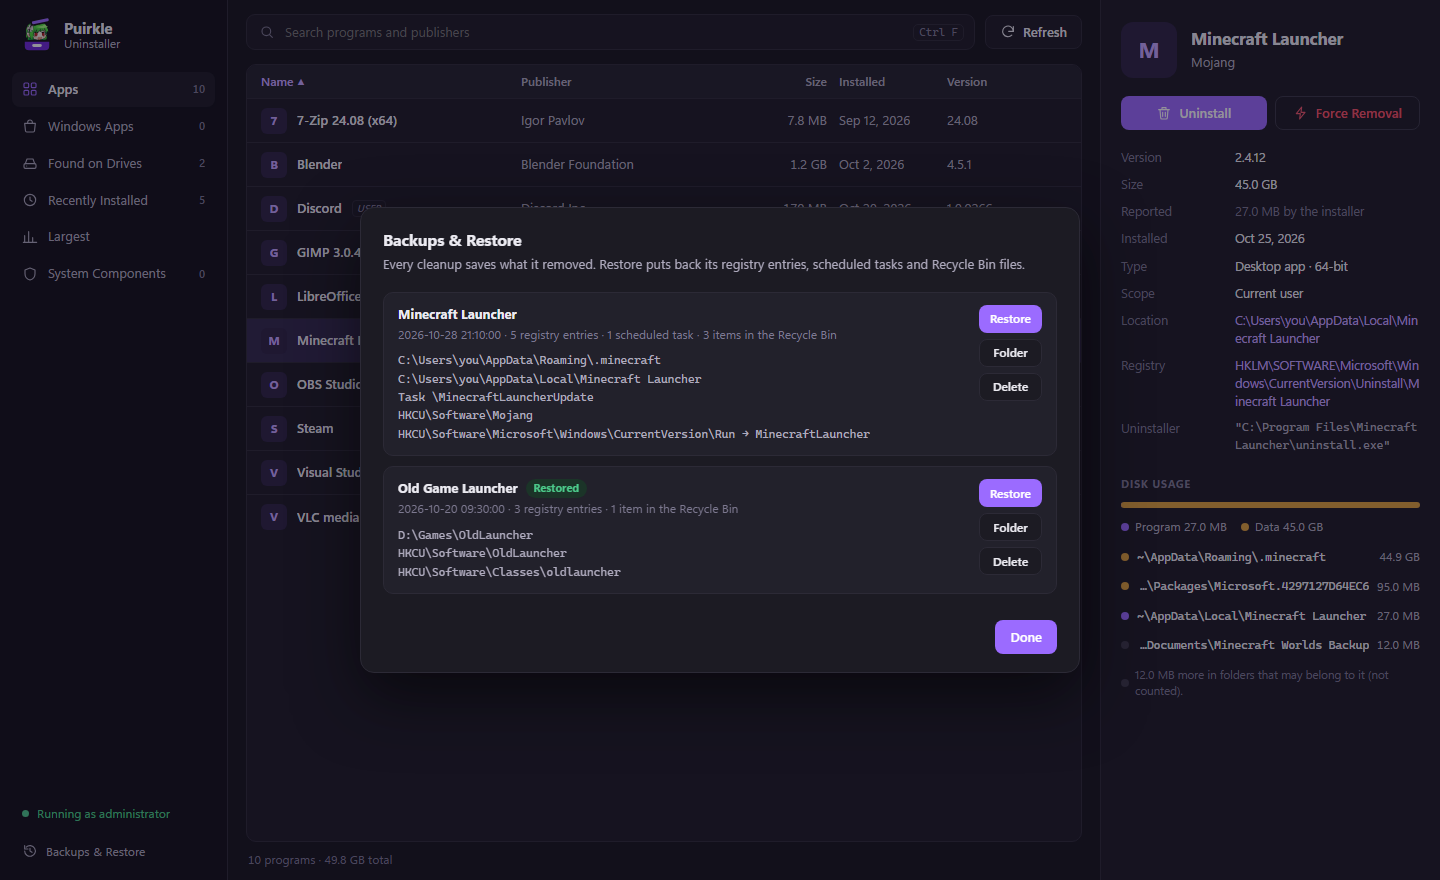
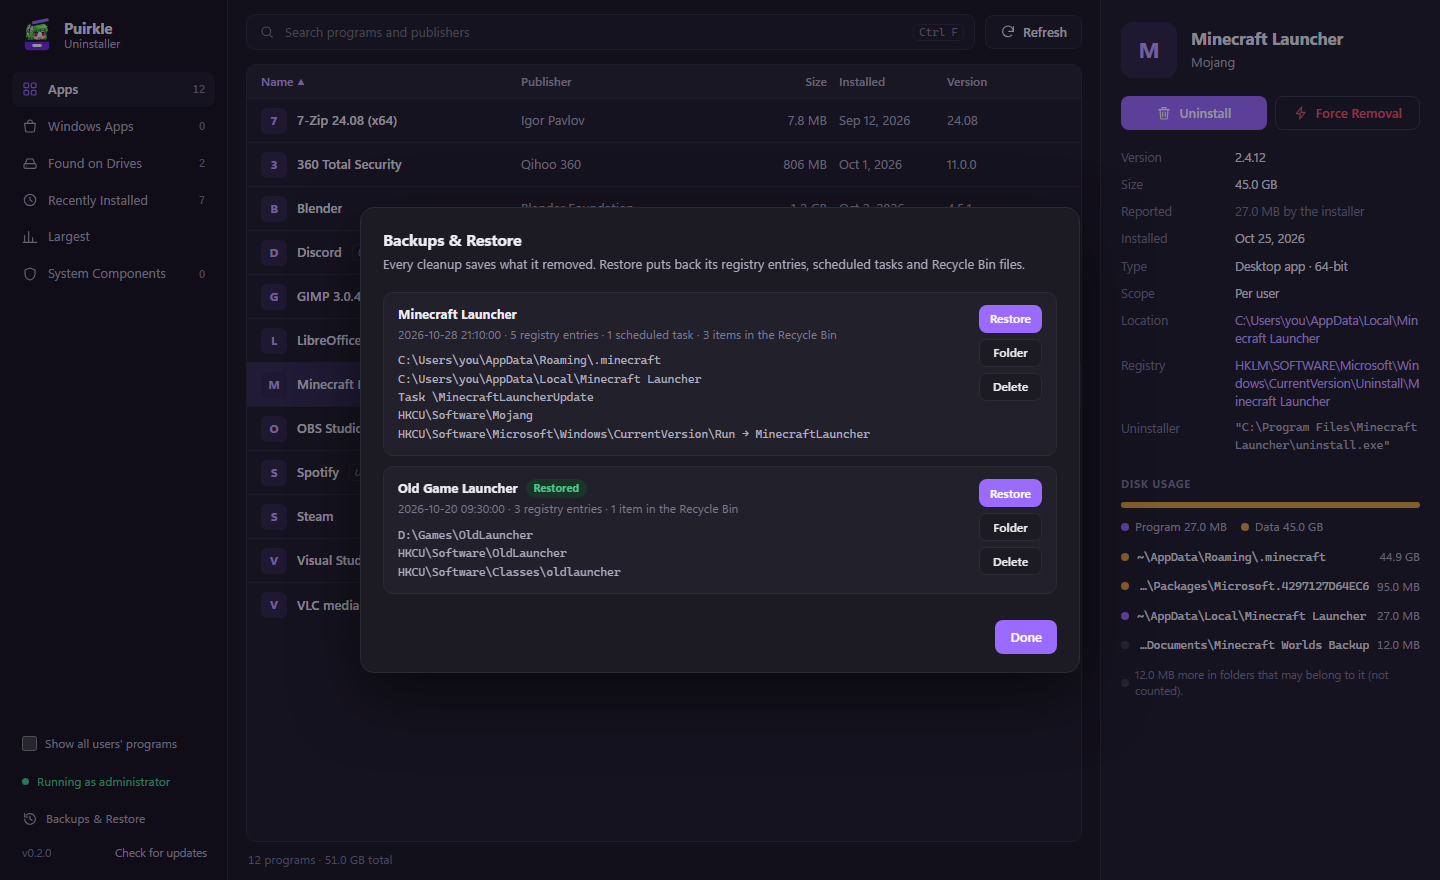
Update README screenshots to v0.2.0

diff --git a/README.md b/README.md
@@ -17,7 +17,7 @@
   <a href="https://buymeacoffee.com/puirkle"><img alt="Buy Me a Coffee" src="https://img.shields.io/badge/Buy%20Me%20a%20Coffee-puirkle-FFDD00?logo=buymeacoffee&logoColor=black"></a>
 </p>
 
-![PuirkleUninstaller showing installed programs and a program's real disk usage](docs/screenshot-main.png)
+![PuirkleUninstaller listing programs for every user account, with a program's real disk usage](docs/screenshot-main.png)
 
 Most programs leave things behind when you uninstall them: settings folders, caches, game saves,
 registry keys, startup entries, services, scheduled tasks. PuirkleUninstaller runs the program's own
@@ -48,6 +48,8 @@ The installer isn't code-signed yet, so Windows SmartScreen may show a warning. 
   own registry hive (needs administrator).
 
 ### Remove stubborn, self-protected programs
+![Dialog explaining that 360 Total Security protects itself, with a button for its official removal tool](docs/screenshot-protected.png)
+
 Some security products (for example 360 Total Security and other antivirus) block normal
 uninstalls on purpose. PuirkleUninstaller recognises them and points you to the **vendor's own
 removal tool** and the **Safe Mode** route, where that self-protection doesn't load. It doesn't
